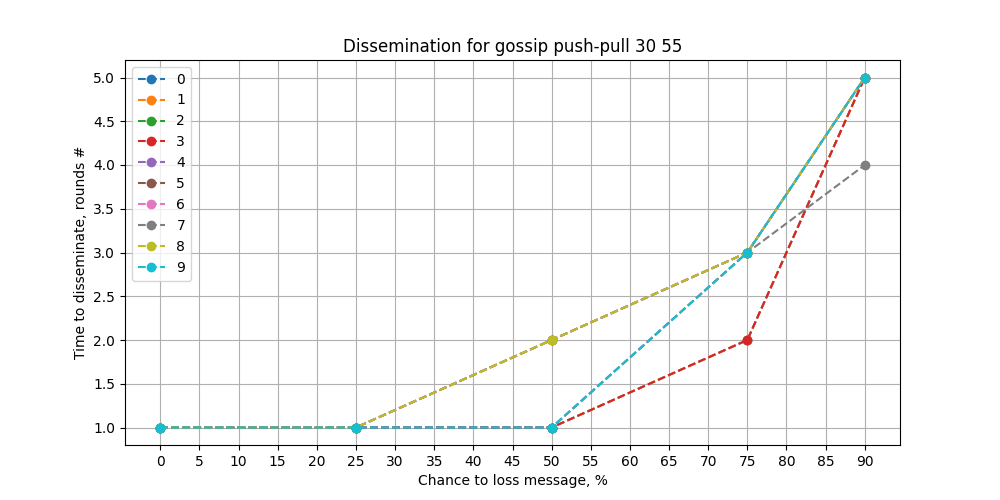
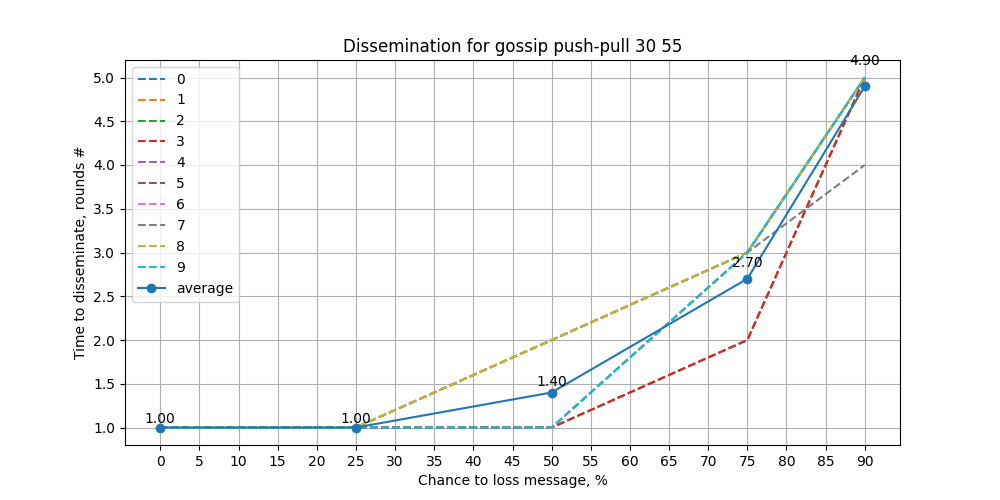
feat: text to points for average line

diff --git a/plotter.py b/plotter.py
@@ -73,13 +73,24 @@ def main() -> int:
 
     for testcase, results in logs.items():
         fig, ax = plt.subplots(1, figsize=(10, 5))
+        n = len(results)
         ax.set_xticks(range(0, 100, 5))
+        y_avg = [0.0] * n
         for i, result in results.items():
             result = sorted(result)
             print(testcase, result)
             x = list(map(lambda r: r[0], result))
+            x_avg = x
+
             y = list(map(lambda r: r[1], result))
-            ax.plot(x, y, 'o--', label=str(i))
+            y_avg = [ y_acc + y_curr for y_acc, y_curr in zip(y_avg, y) ]
+
+            ax.plot(x, y, '--', label=str(i))
+
+        y_avg = list(map(lambda v: v / n, y_avg))
+        ax.plot(x_avg, y_avg, 'o-', label='average')
+        for x, y in zip(x_avg, y_avg):
+            ax.text(x, y * 1.05, '%.2f' % y, ha='center')
 
         plt.title(f'Dissemination for {testcase}')
         plt.xlabel('Chance to loss message, %')
